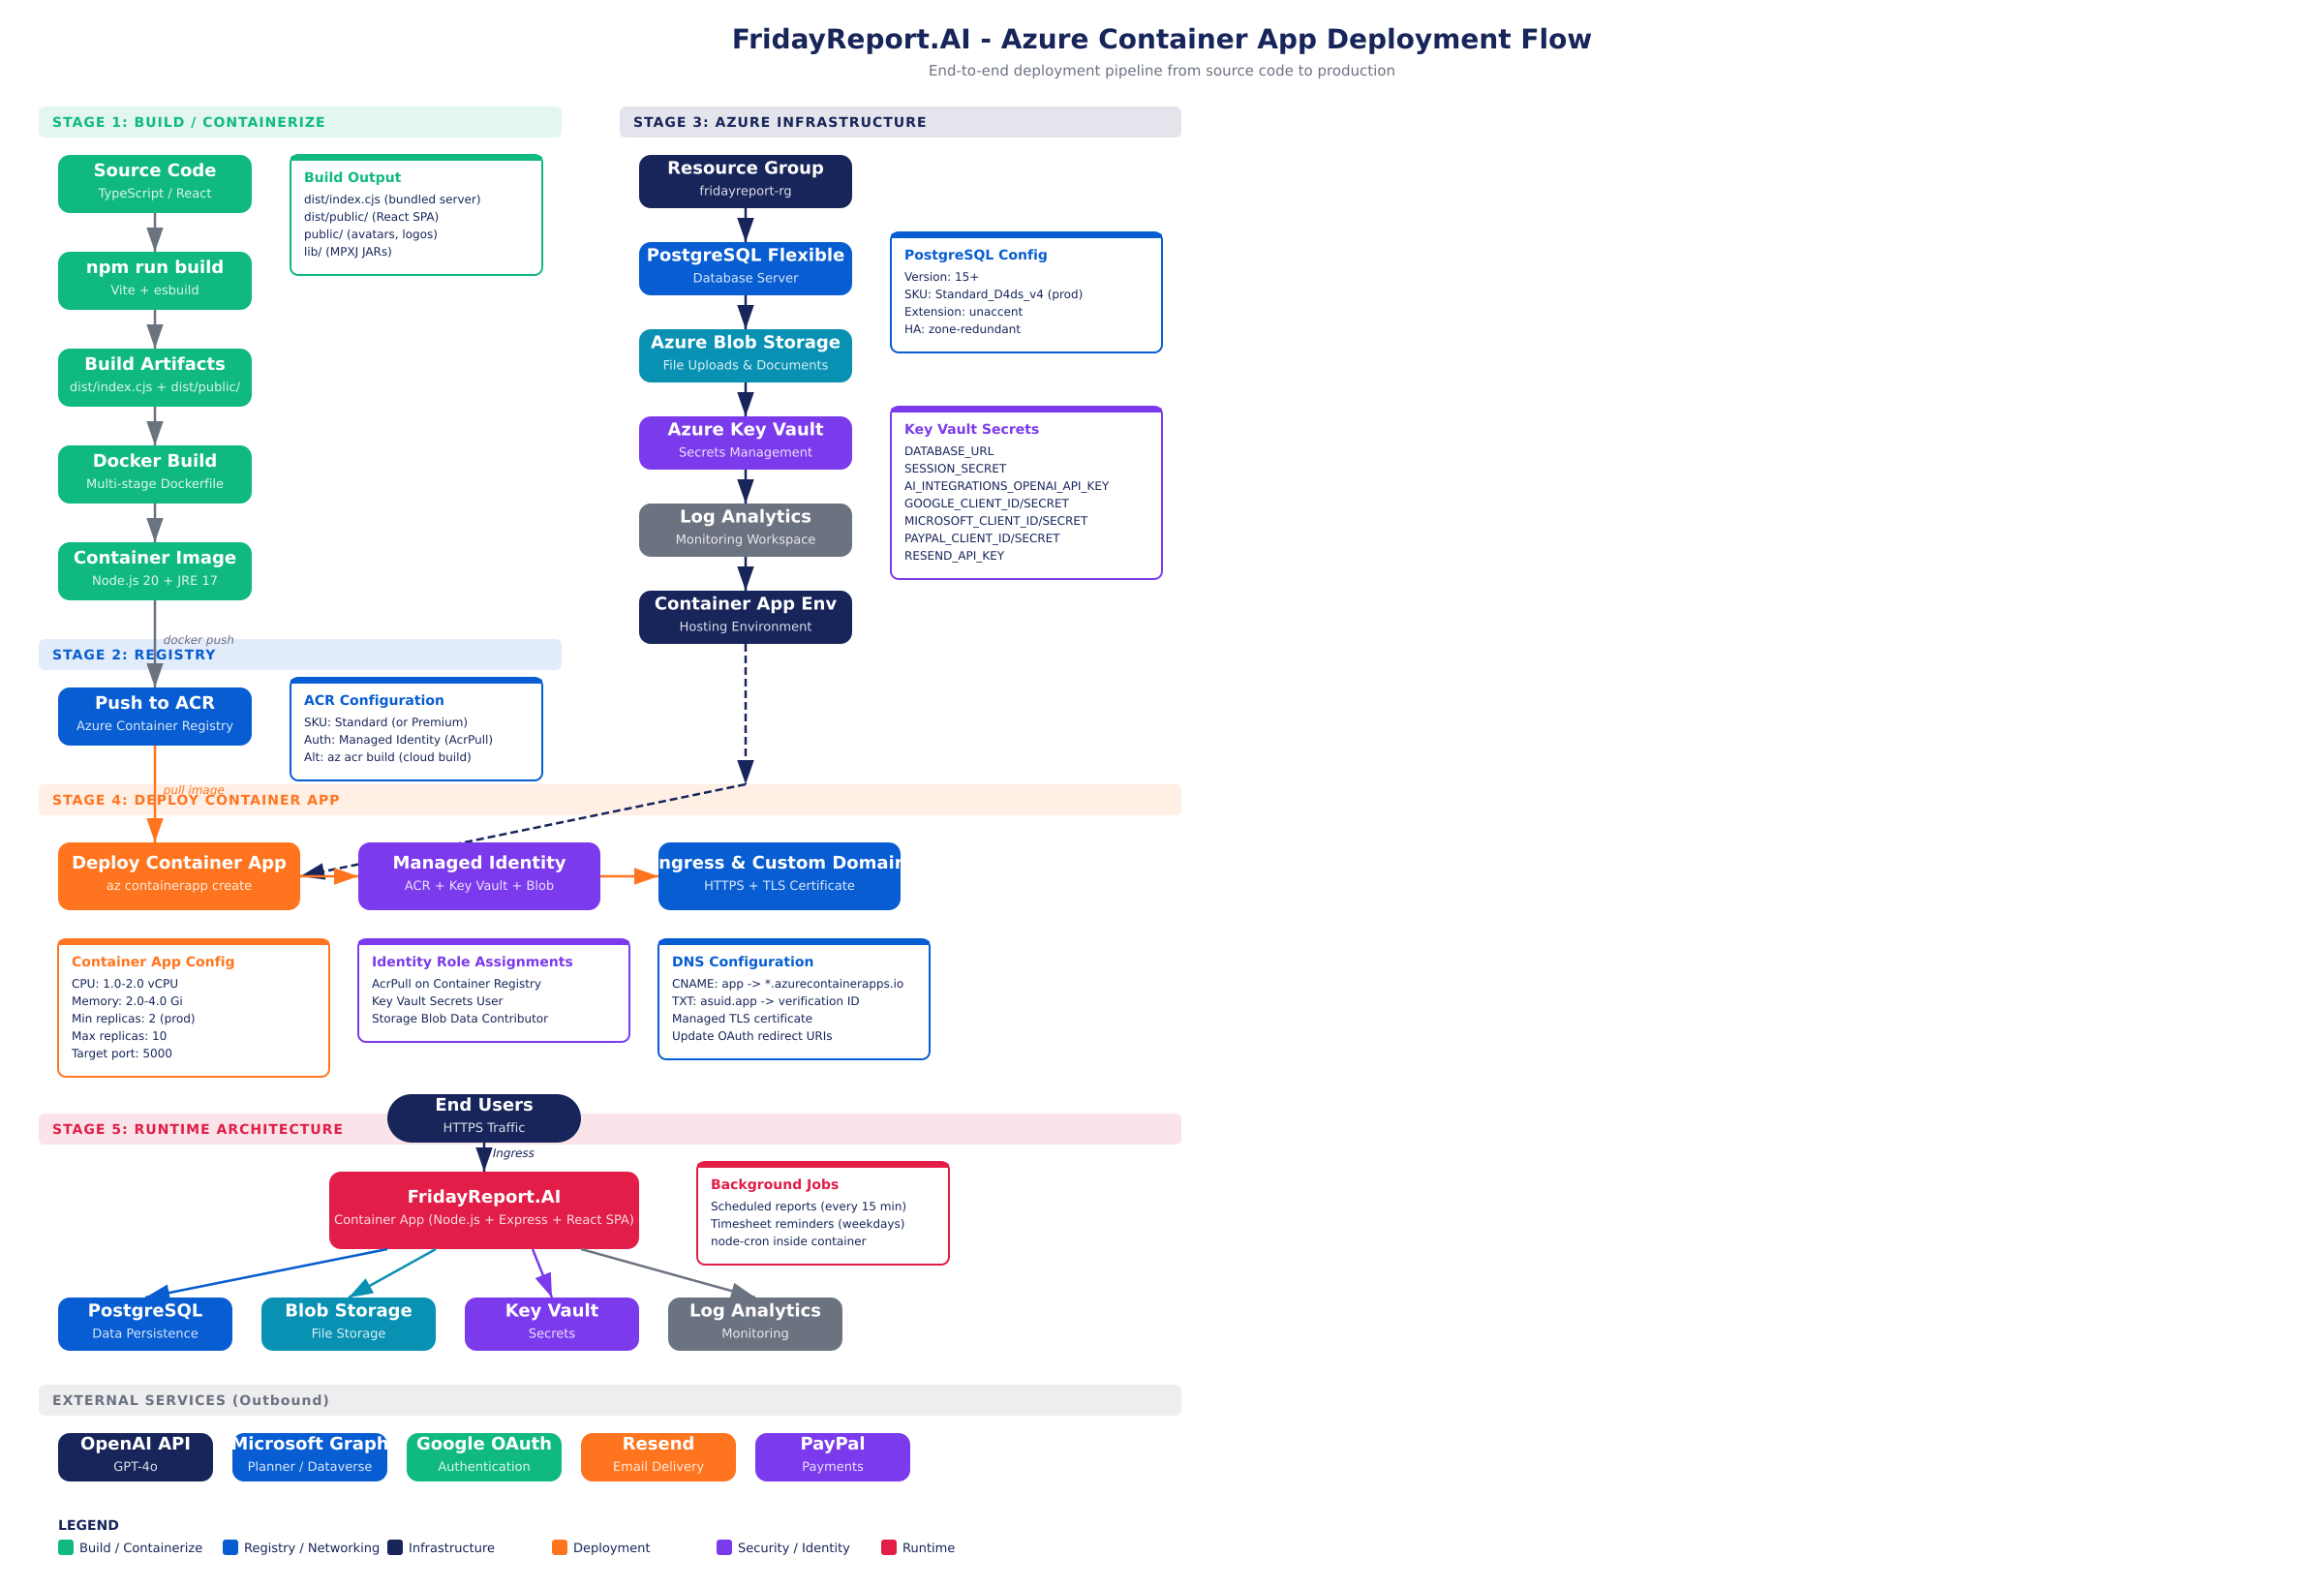
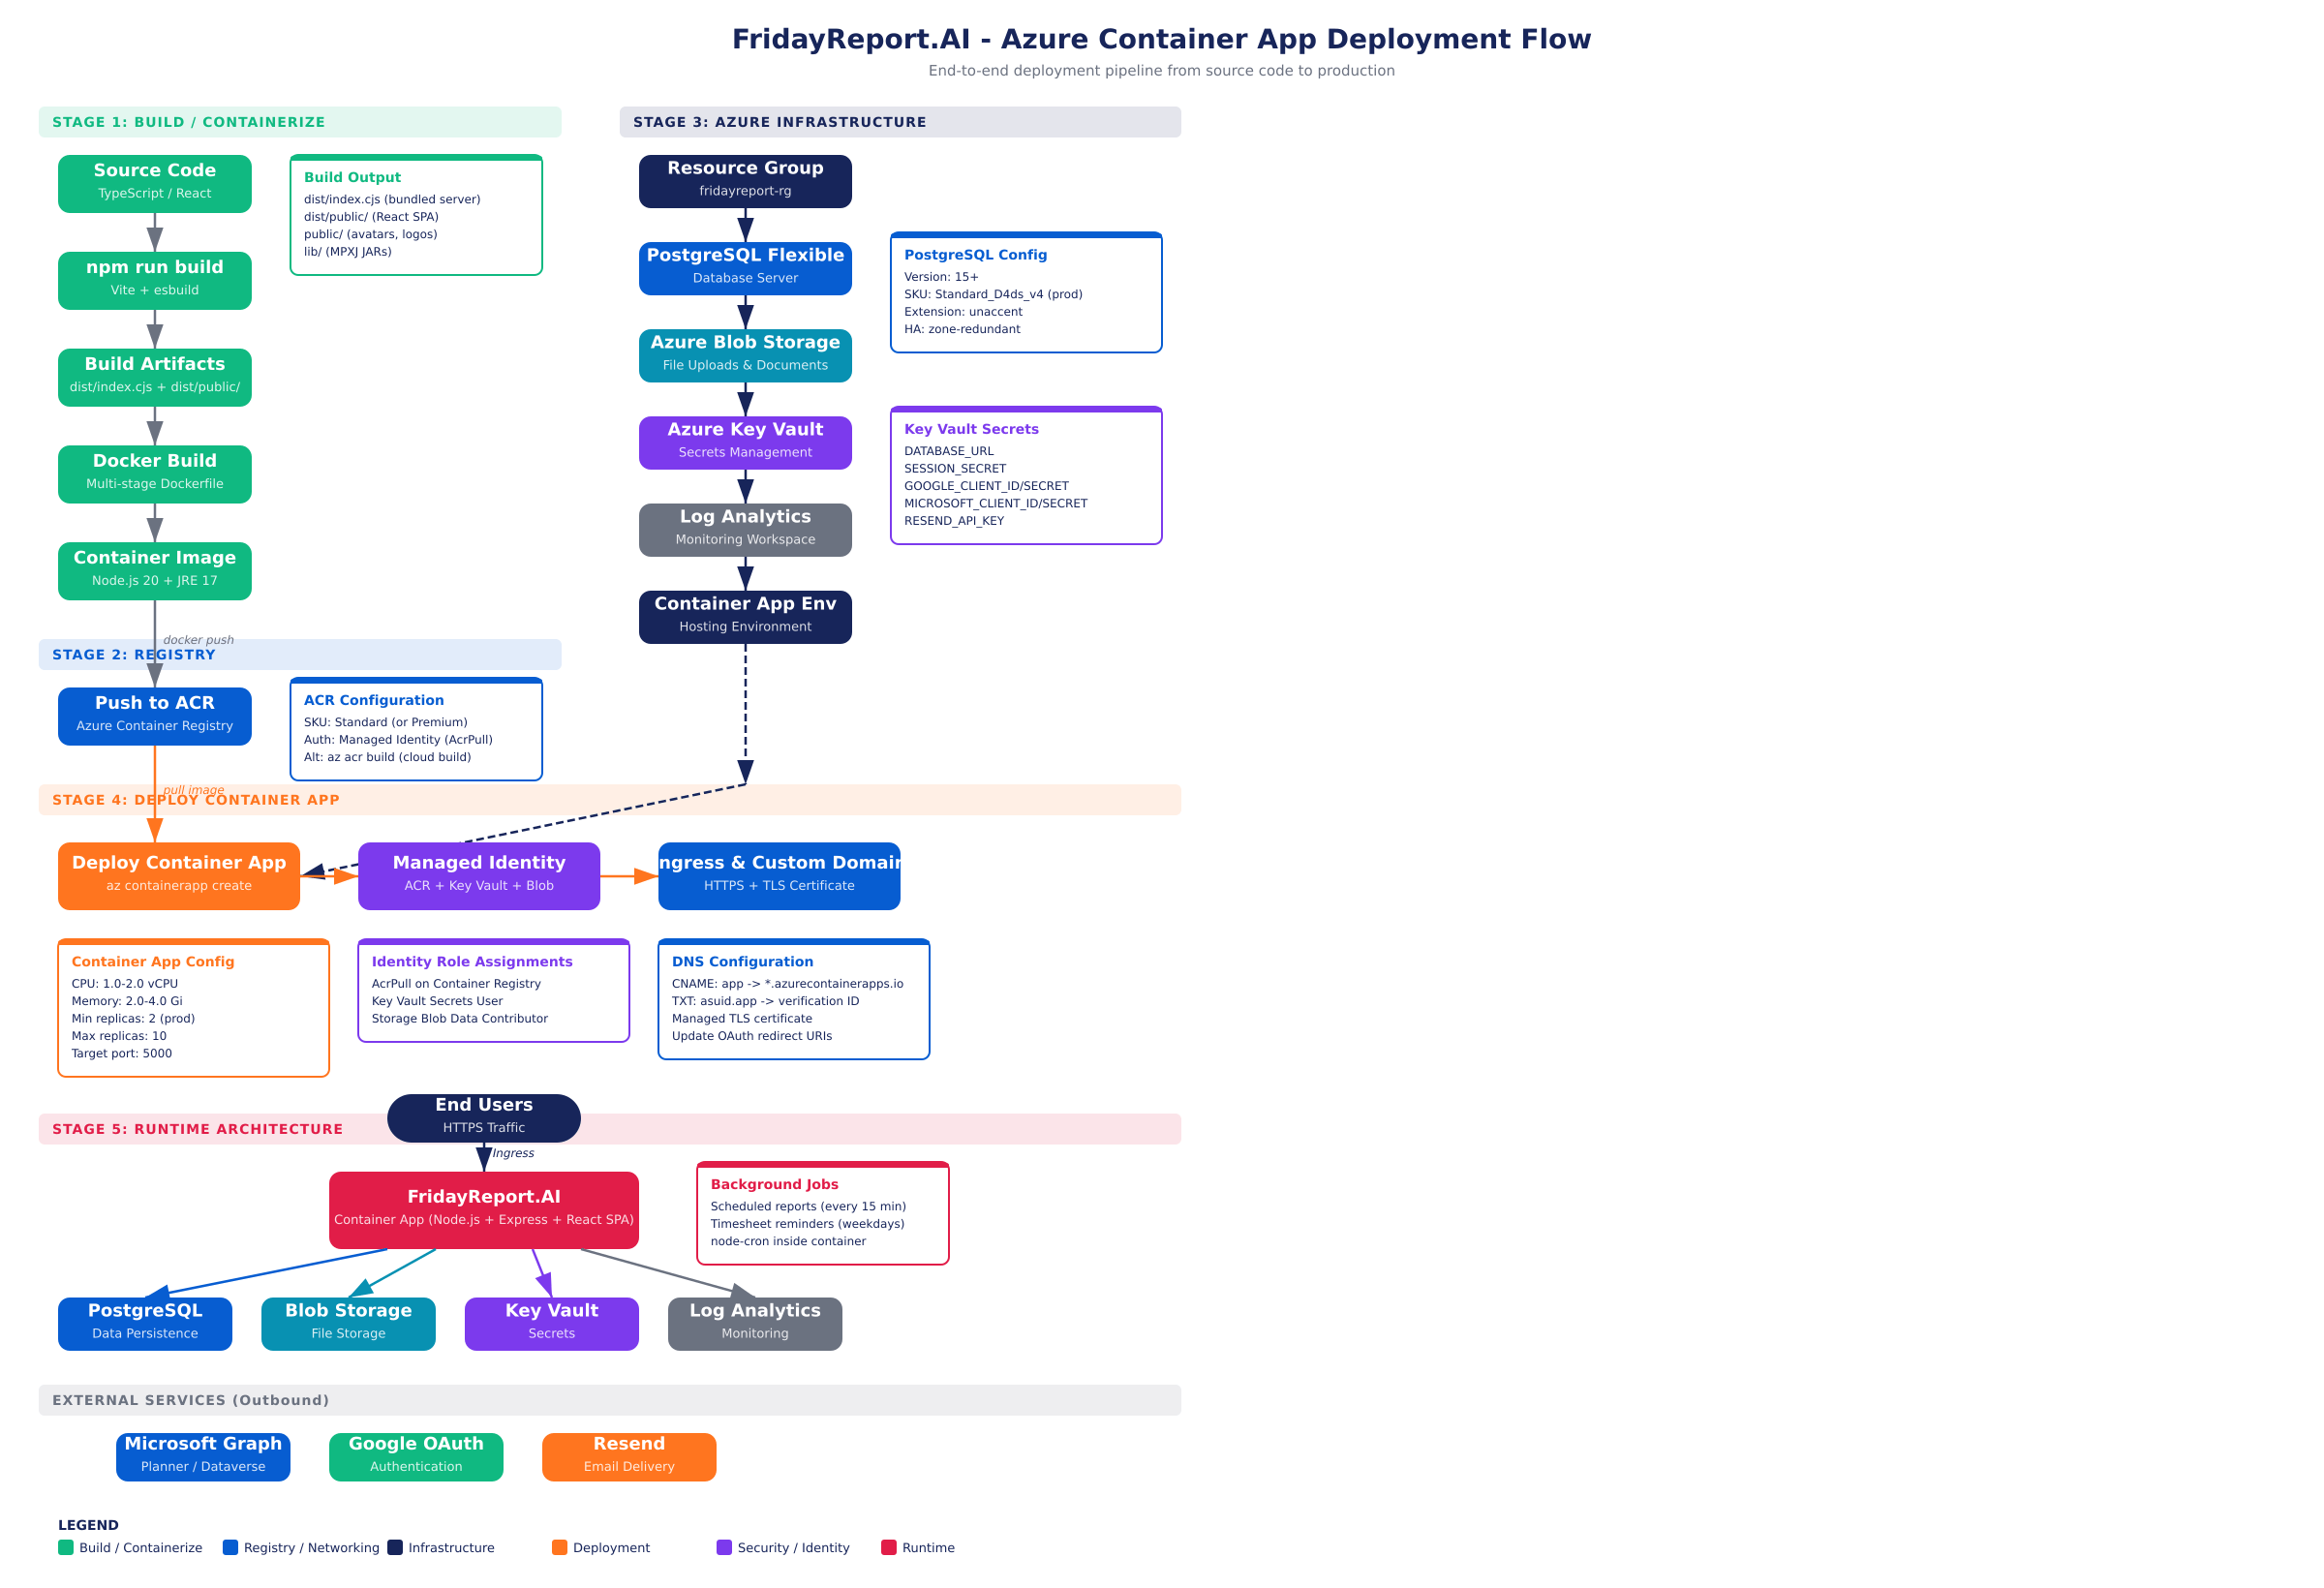
Remove AI and payment integrations from documentation and deployment flow
Removes all references to OpenAI and PayPal from the project's documentation, deployment scripts, and visual diagrams, updating the technology stack and external service integrations accordingly.

Replit-Commit-Author: Agent
Replit-Commit-Session-Id: 6d2574e3-cf59-4195-8e61-d725d2127375
Replit-Commit-Checkpoint-Type: full_checkpoint
Replit-Commit-Event-Id: 441d5666-7486-41ba-8a68-33edab6863f7
Replit-Helium-Checkpoint-Created: true

Changed region(s): [[0.0, 0.9018, 0.4062, 0.9329], [0.375, 0.2799, 0.4688, 0.3732]]

diff --git a/scripts/generate-azure-doc.ts b/scripts/generate-azure-doc.ts
@@ -248,7 +248,7 @@ const doc = new Document({
         pageBreak(),
         h1("1. Executive Summary"),
         para("This document provides a comprehensive, step-by-step guide for deploying the FridayReport.AI application to Microsoft Azure using Azure Container Apps. It covers the complete deployment pipeline from building the application source code through containerization, registry management, infrastructure provisioning, and production configuration."),
-        para("FridayReport.AI is an enterprise-grade Project & Portfolio Management (PPM) platform built on a modern TypeScript stack. The application uses a React 18 frontend with Tailwind CSS, an Express.js backend with PostgreSQL via Drizzle ORM, and integrates with OpenAI for AI-driven risk assessments, Microsoft Graph for Planner/Dataverse connectivity, and PayPal for subscription billing."),
+        para("FridayReport.AI is an enterprise-grade Project & Portfolio Management (PPM) platform built on a modern TypeScript stack. The application uses a React 18 frontend with Tailwind CSS, an Express.js backend with PostgreSQL via Drizzle ORM, and integrates with Microsoft Graph for Planner/Dataverse connectivity."),
         para("The target deployment architecture leverages Azure Container Apps for serverless container hosting, Azure Database for PostgreSQL Flexible Server for data persistence, Azure Blob Storage for file management, and Azure Key Vault for secrets management."),
         para("The target audience for this document includes DevOps engineers, cloud architects, and IT administrators responsible for deploying and maintaining the FridayReport.AI platform in an Azure environment."),
 
@@ -267,10 +267,8 @@ const doc = new Document({
             ["Backend", "Node.js 20 + Express.js (TypeScript)"],
             ["Database", "PostgreSQL 15+ (via Drizzle ORM)"],
             ["Authentication", "Passport.js (Email/Password, Google OAuth 2.0, Microsoft Entra ID OAuth)"],
-            ["AI Services", "OpenAI API (GPT-4o) for risk assessment, dashboard generation, resource optimization"],
             ["File Processing", "Java-based MPP parser (MPXJ library) for Microsoft Project files"],
             ["Email", "Resend API for transactional emails"],
-            ["Payments", "PayPal REST API for subscription billing"],
             ["Scheduling", "node-cron for automated report generation and timesheet reminders"],
             ["Application Port", "5000 (configurable via PORT environment variable)"],
           ]
@@ -291,7 +289,7 @@ const doc = new Document({
             ["client/src/components/", "React UI components organized by functional area"],
             ["client/src/pages/", "Route-level page components"],
             ["server/auth/", "Multi-provider authentication logic (email, Google, Microsoft)"],
-            ["server/services/", "Business logic and third-party integrations (Microsoft Graph, OpenAI, email)"],
+            ["server/services/", "Business logic and third-party integrations (Microsoft Graph, email)"],
             ["shared/", "Database schema (Drizzle ORM) and shared type definitions"],
             ["lib/", "JAR files and Java source for the MPP file parser"],
             ["script/", "Build script (build.ts) and database migration runner (migrate.ts)"],
@@ -345,7 +343,7 @@ const doc = new Document({
         bullet("Container App connects to Azure Database for PostgreSQL via VNet private endpoint."),
         bullet("Container App connects to Azure Blob Storage for file operations via Managed Identity."),
         bullet("Container App retrieves secrets from Azure Key Vault at startup via Managed Identity."),
-        bullet("Outbound API calls go to OpenAI, Resend, Google (OAuth), Microsoft Graph, and PayPal."),
+        bullet("Outbound API calls go to Resend, Google (OAuth), and Microsoft Graph."),
         bullet("Cron jobs (scheduled reports, timesheet reminders) run within the container process."),
 
         // ═══════════════════════════════════════════════
@@ -509,8 +507,6 @@ const doc = new Document({
         code("az keyvault secret set --vault-name fridayreport-kv --name SESSION-SECRET \\"),
         code("  --value \"$(openssl rand -hex 32)\""),
         code(""),
-        code("az keyvault secret set --vault-name fridayreport-kv --name AI-INTEGRATIONS-OPENAI-API-KEY \\"),
-        code("  --value \"<your-openai-api-key>\""),
 
         // 4.10
         pageBreak(),
@@ -556,26 +552,20 @@ const doc = new Document({
         code("  --secrets \\"),
         code("    database-url=\"<your-database-url>\" \\"),
         code("    session-secret=\"<your-session-secret>\" \\"),
-        code("    ai-integrations-openai-api-key=\"<your-openai-key>\" \\"),
         code("    google-client-id=\"<your-google-client-id>\" \\"),
         code("    google-client-secret=\"<your-google-client-secret>\" \\"),
         code("    microsoft-client-id=\"<your-ms-client-id>\" \\"),
         code("    microsoft-client-secret=\"<your-ms-client-secret>\" \\"),
-        code("    paypal-client-id=\"<your-paypal-client-id>\" \\"),
-        code("    paypal-client-secret=\"<your-paypal-client-secret>\" \\"),
         code("    resend-api-key=\"<your-resend-api-key>\" \\"),
         code("  --env-vars \\"),
         code("    NODE_ENV=production \\"),
         code("    PORT=5000 \\"),
         code("    DATABASE_URL=secretref:database-url \\"),
         code("    SESSION_SECRET=secretref:session-secret \\"),
-        code("    AI_INTEGRATIONS_OPENAI_API_KEY=secretref:ai-integrations-openai-api-key \\"),
         code("    GOOGLE_CLIENT_ID=secretref:google-client-id \\"),
         code("    GOOGLE_CLIENT_SECRET=secretref:google-client-secret \\"),
         code("    MICROSOFT_CLIENT_ID=secretref:microsoft-client-id \\"),
         code("    MICROSOFT_CLIENT_SECRET=secretref:microsoft-client-secret \\"),
-        code("    PAYPAL_CLIENT_ID=secretref:paypal-client-id \\"),
-        code("    PAYPAL_CLIENT_SECRET=secretref:paypal-client-secret \\"),
         code("    RESEND_API_KEY=secretref:resend-api-key \\"),
         code("    RESEND_FROM_EMAIL=[email redacted] \\"),
         code("    AZURE_STORAGE_ACCOUNT_NAME=fridayreportstorage \\"),
@@ -678,17 +668,7 @@ const doc = new Document({
         ),
         spacer(),
 
-        h2("5.2 AI Integration"),
-        makeTable(
-          ["Variable", "Description", "Example / Notes"],
-          [
-            ["AI_INTEGRATIONS_OPENAI_API_KEY", "OpenAI API key for GPT-4o features", "sk-... (or Azure OpenAI key)"],
-            ["AI_INTEGRATIONS_OPENAI_BASE_URL", "API base URL (for Azure OpenAI)", "https://<resource>.openai.azure.com/"],
-          ]
-        ),
-        spacer(),
-
-        h2("5.3 Authentication \u2014 Google OAuth"),
+        h2("5.2 Authentication \u2014 Google OAuth"),
         makeTable(
           ["Variable", "Description", "Example / Notes"],
           [
@@ -698,7 +678,7 @@ const doc = new Document({
         ),
         spacer(),
 
-        h2("5.4 Authentication \u2014 Microsoft Entra ID"),
+        h2("5.3 Authentication \u2014 Microsoft Entra ID"),
         makeTable(
           ["Variable", "Description", "Example / Notes"],
           [
@@ -708,7 +688,7 @@ const doc = new Document({
         ),
         spacer(),
 
-        h2("5.5 Email Service"),
+        h2("5.4 Email Service"),
         makeTable(
           ["Variable", "Description", "Example / Notes"],
           [
@@ -718,17 +698,7 @@ const doc = new Document({
         ),
         spacer(),
 
-        h2("5.6 Payments \u2014 PayPal"),
-        makeTable(
-          ["Variable", "Description", "Example / Notes"],
-          [
-            ["PAYPAL_CLIENT_ID", "PayPal REST API client ID", "From PayPal Developer Dashboard"],
-            ["PAYPAL_CLIENT_SECRET", "PayPal REST API client secret", "From PayPal Developer Dashboard"],
-          ]
-        ),
-        spacer(),
-
-        h2("5.7 Storage \u2014 Azure Blob"),
+        h2("5.5 Storage \u2014 Azure Blob"),
         makeTable(
           ["Variable", "Description", "Example / Notes"],
           [
@@ -875,13 +845,11 @@ const doc = new Document({
         boldPara("4. Storage Migration (Required)"),
         para("The application currently uses a platform-specific object storage integration that is not compatible with Azure. Before deployment, the storage layer must be replaced with an Azure Blob Storage adapter using the @azure/storage-blob SDK. The storage integration is isolated in a dedicated module, making this a contained code change. Existing files must be migrated to Azure Blob Storage."),
 
-        boldPara("5. AI Services: OpenAI vs. Azure OpenAI"),
-        para("The application uses OpenAI directly. Consider Azure OpenAI Service for data residency, compliance, and integrated billing. The OpenAI SDK supports Azure OpenAI endpoints with minimal code changes (update base URL and API key)."),
 
-        boldPara("6. Custom Domain & DNS"),
+        boldPara("5. Custom Domain & DNS"),
         para("Azure Container Apps supports custom domains with managed TLS certificates. Plan DNS configuration including CNAME records and domain verification."),
 
-        boldPara("7. Session Management"),
+        boldPara("6. Session Management"),
         para("Sessions are stored in PostgreSQL via connect-pg-simple, which supports horizontal scaling. Sessions survive container restarts and work correctly across multiple replicas."),
 
         // ═══════════════════════════════════════════════

diff --git a/scripts/generate-diagram.ts b/scripts/generate-diagram.ts
@@ -191,7 +191,7 @@ function buildDiagram(): string {
 
   content += renderNote({
     x: 920, y: 420, w: 280, title: "Key Vault Secrets",
-    lines: ["DATABASE_URL", "SESSION_SECRET", "AI_INTEGRATIONS_OPENAI_API_KEY", "GOOGLE_CLIENT_ID/SECRET", "MICROSOFT_CLIENT_ID/SECRET", "PAYPAL_CLIENT_ID/SECRET", "RESEND_API_KEY"],
+    lines: ["DATABASE_URL", "SESSION_SECRET", "GOOGLE_CLIENT_ID/SECRET", "MICROSOFT_CLIENT_ID/SECRET", "RESEND_API_KEY"],
     color: PURPLE,
   });
 
@@ -255,11 +255,9 @@ function buildDiagram(): string {
   content += renderSectionLabel(40, 1430, 1180, "EXTERNAL SERVICES (Outbound)", GRAY);
 
   const externalServices: Box[] = [
-    { x: 60, y: 1480, w: 160, h: 50, label: "OpenAI API", sublabel: "GPT-4o", color: BRAND_DARK },
-    { x: 240, y: 1480, w: 160, h: 50, label: "Microsoft Graph", sublabel: "Planner / Dataverse", color: BRAND_BLUE },
-    { x: 420, y: 1480, w: 160, h: 50, label: "Google OAuth", sublabel: "Authentication", color: GREEN },
-    { x: 600, y: 1480, w: 160, h: 50, label: "Resend", sublabel: "Email Delivery", color: BRAND_ORANGE },
-    { x: 780, y: 1480, w: 160, h: 50, label: "PayPal", sublabel: "Payments", color: PURPLE },
+    { x: 120, y: 1480, w: 180, h: 50, label: "Microsoft Graph", sublabel: "Planner / Dataverse", color: BRAND_BLUE },
+    { x: 340, y: 1480, w: 180, h: 50, label: "Google OAuth", sublabel: "Authentication", color: GREEN },
+    { x: 560, y: 1480, w: 180, h: 50, label: "Resend", sublabel: "Email Delivery", color: BRAND_ORANGE },
   ];
   for (const b of externalServices) content += renderBox(b);
 